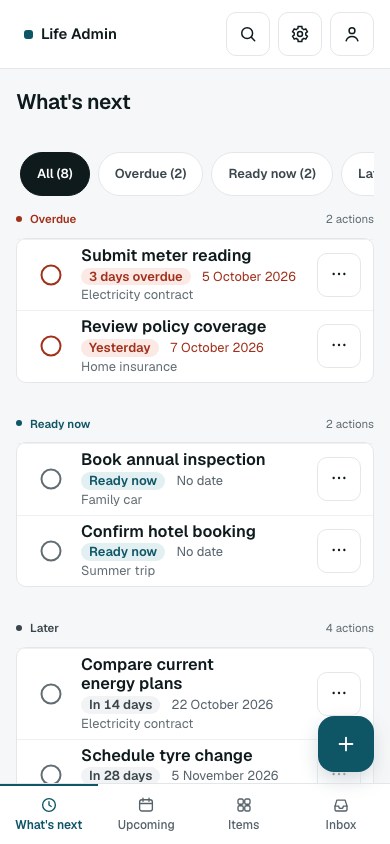
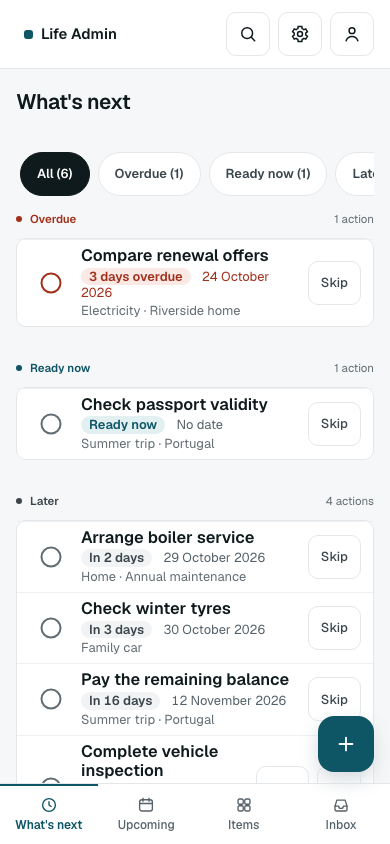
Update README screenshots and GHCR quickstart (#69)
* Update README screenshots and document GHCR quickstart

* Fix ambiguous desktop sidebar test locators

diff --git a/tests/e2e/app-shell.spec.ts b/tests/e2e/app-shell.spec.ts
@@ -151,8 +151,10 @@ test.describe('desktop sidebar', () => {
 		page
 	}) => {
 		await page.goto('/');
-		await expect(page.getByRole('link', { name: 'Life Admin' })).toBeVisible();
-		await expect(page.getByRole('link', { name: 'Suchen' })).toBeVisible();
+		const sidebar = page.locator('.app-sidebar');
+		await expect(sidebar.getByRole('link', { name: 'Life Admin' })).toBeVisible();
+		await expect(sidebar.getByRole('link', { name: 'Suchen' })).toBeVisible();
+		await expect(page.locator('.app-mobile-header')).toBeHidden();
 
 		const nav = page.getByRole('navigation', { name: 'Hauptnavigation' });
 		await expect(nav.getByRole('link', { name: 'Was steht an' })).toHaveAttribute(

diff --git a/README.md b/README.md
@@ -13,8 +13,8 @@ for non-commercial use ([details below](#license)). **Contributing:** see
 
 ![What's next showing overdue, ready now, and later actions for sample items](screenshots/whats-next.png)
 ![What's next in dark mode with the same overdue, ready now, and later actions](screenshots/whats-next-dark.png)
-![Item detail showing the next action, workflow steps, and field values](screenshots/item-detail.png)
-![Inbox with an AI suggestion for the selected document and a second document in the list](screenshots/inbox.png)
+![Item detail showing the next action, workflow progress, grouped fields, documents, and history](screenshots/item-detail.png)
+![Inbox with two sample documents and destination selection for the selected document](screenshots/inbox.png)
 ![New item form with a title and a Playbook selected](screenshots/new-item.png)
 <img src="screenshots/mobile.png" width="300" alt="What's next on mobile with the header, first action rows, and tab bar">
 
@@ -36,16 +36,52 @@ All data shown is fictional test data, not a real booking or contract.
 
 ## Quickstart
 
+Choose a published image or build from source. Both options need Docker;
+the source option also needs Docker Compose and a checkout of this repository.
+
+### Run a published release
+
+Download a specific version from GitHub Container Registry (GHCR), then start it:
+
+```bash
+VERSION=0.2.0-beta.2
+docker pull ghcr.io/siegl13/life-admin:$VERSION
+docker run -d --name lifeadmin --restart unless-stopped \
+  -p 3000:3000 \
+  -e ORIGIN=http://localhost:3000 \
+  -e TZ=Europe/Berlin \
+  -e LIFEADMIN_DATA_DIR=/data \
+  -e BODY_SIZE_LIMIT=280M \
+  -v lifeadmin-data:/data \
+  ghcr.io/siegl13/life-admin:$VERSION
+```
+
+Replace `VERSION` with the version from the [GitHub Releases](https://github.com/siegl13/life-admin/releases)
+page. Beta releases use explicit version tags, not `latest`. Images support
+`linux/amd64` and `linux/arm64`.
+
+For the published `0.2.0-beta.2` image, set `ORIGIN` to the exact URL you
+use in your browser, including the scheme and port. For example, use
+`-e ORIGIN=http://192.168.1.20:3000` for LAN access. Otherwise, form submissions
+may fail with "Cross-site POST form submissions are forbidden."
+
+### Build from source with Docker Compose
+
+From the repository directory:
+
 ```bash
 docker compose up -d
 ```
 
-Requires Docker and Docker Compose. One container, port 3000, all data in
-a named volume. Open `http://localhost:3000` and create the Owner
+### First login
+
+Either option runs one container on port 3000 and keeps all data in a named
+volume. Use only one option at a time; their default volume names differ.
+Open `http://localhost:3000` and create the Owner
 account: the first person to reach the service claims it, so don't leave
 it open on a public network before that.
 
-The sample Compose file publishes port 3000 on all host interfaces. Keep
+Both examples publish port 3000 on all host interfaces. Keep
 that port behind a firewall on a trusted LAN. For access from the internet,
 use HTTPS through a reverse proxy and block direct access to port 3000.
 
@@ -253,7 +289,8 @@ backups, so re-enter them after restoring elsewhere.
 Download a ZIP backup from Settings: all your private data, including
 attachments, capped at 256 MiB compressed. Restore validates the archive
 and takes a safety copy first. Afterward, run
-`docker compose restart lifeadmin`.
+`docker compose restart lifeadmin` for Compose, or `docker restart lifeadmin`
+for the published-image example above.
 
 For a full volume copy, stop the service, run
 `docker cp lifeadmin:/data ./backup`, then start it again. Pre-restore
